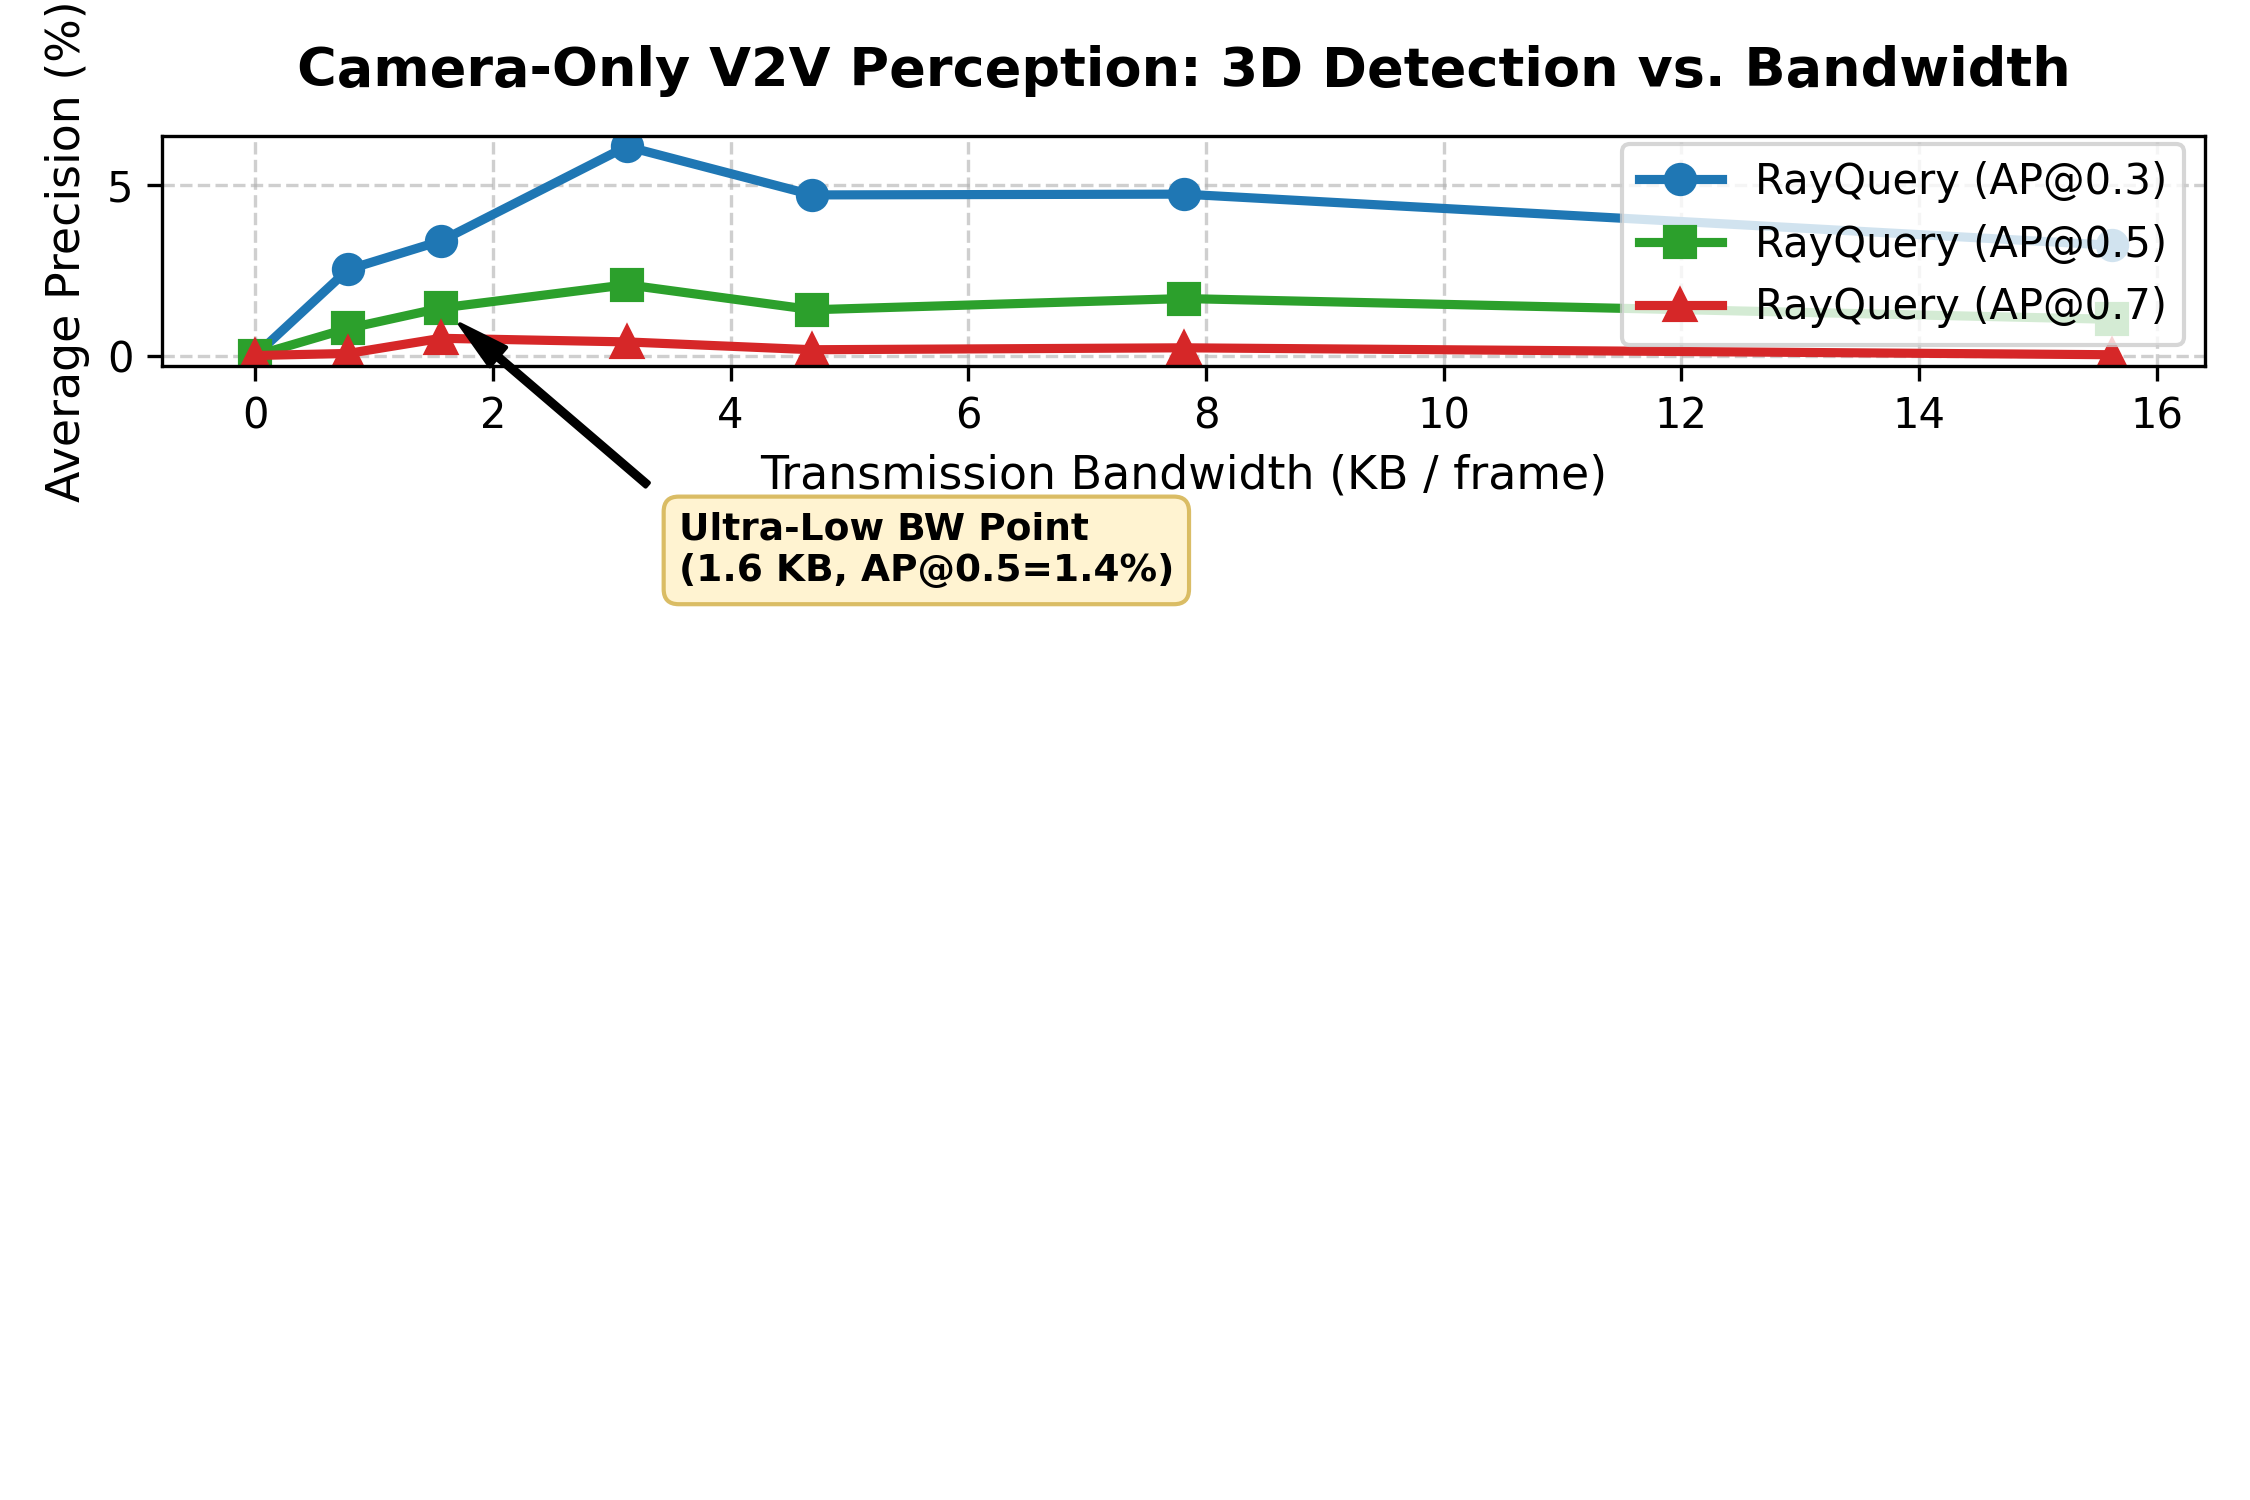
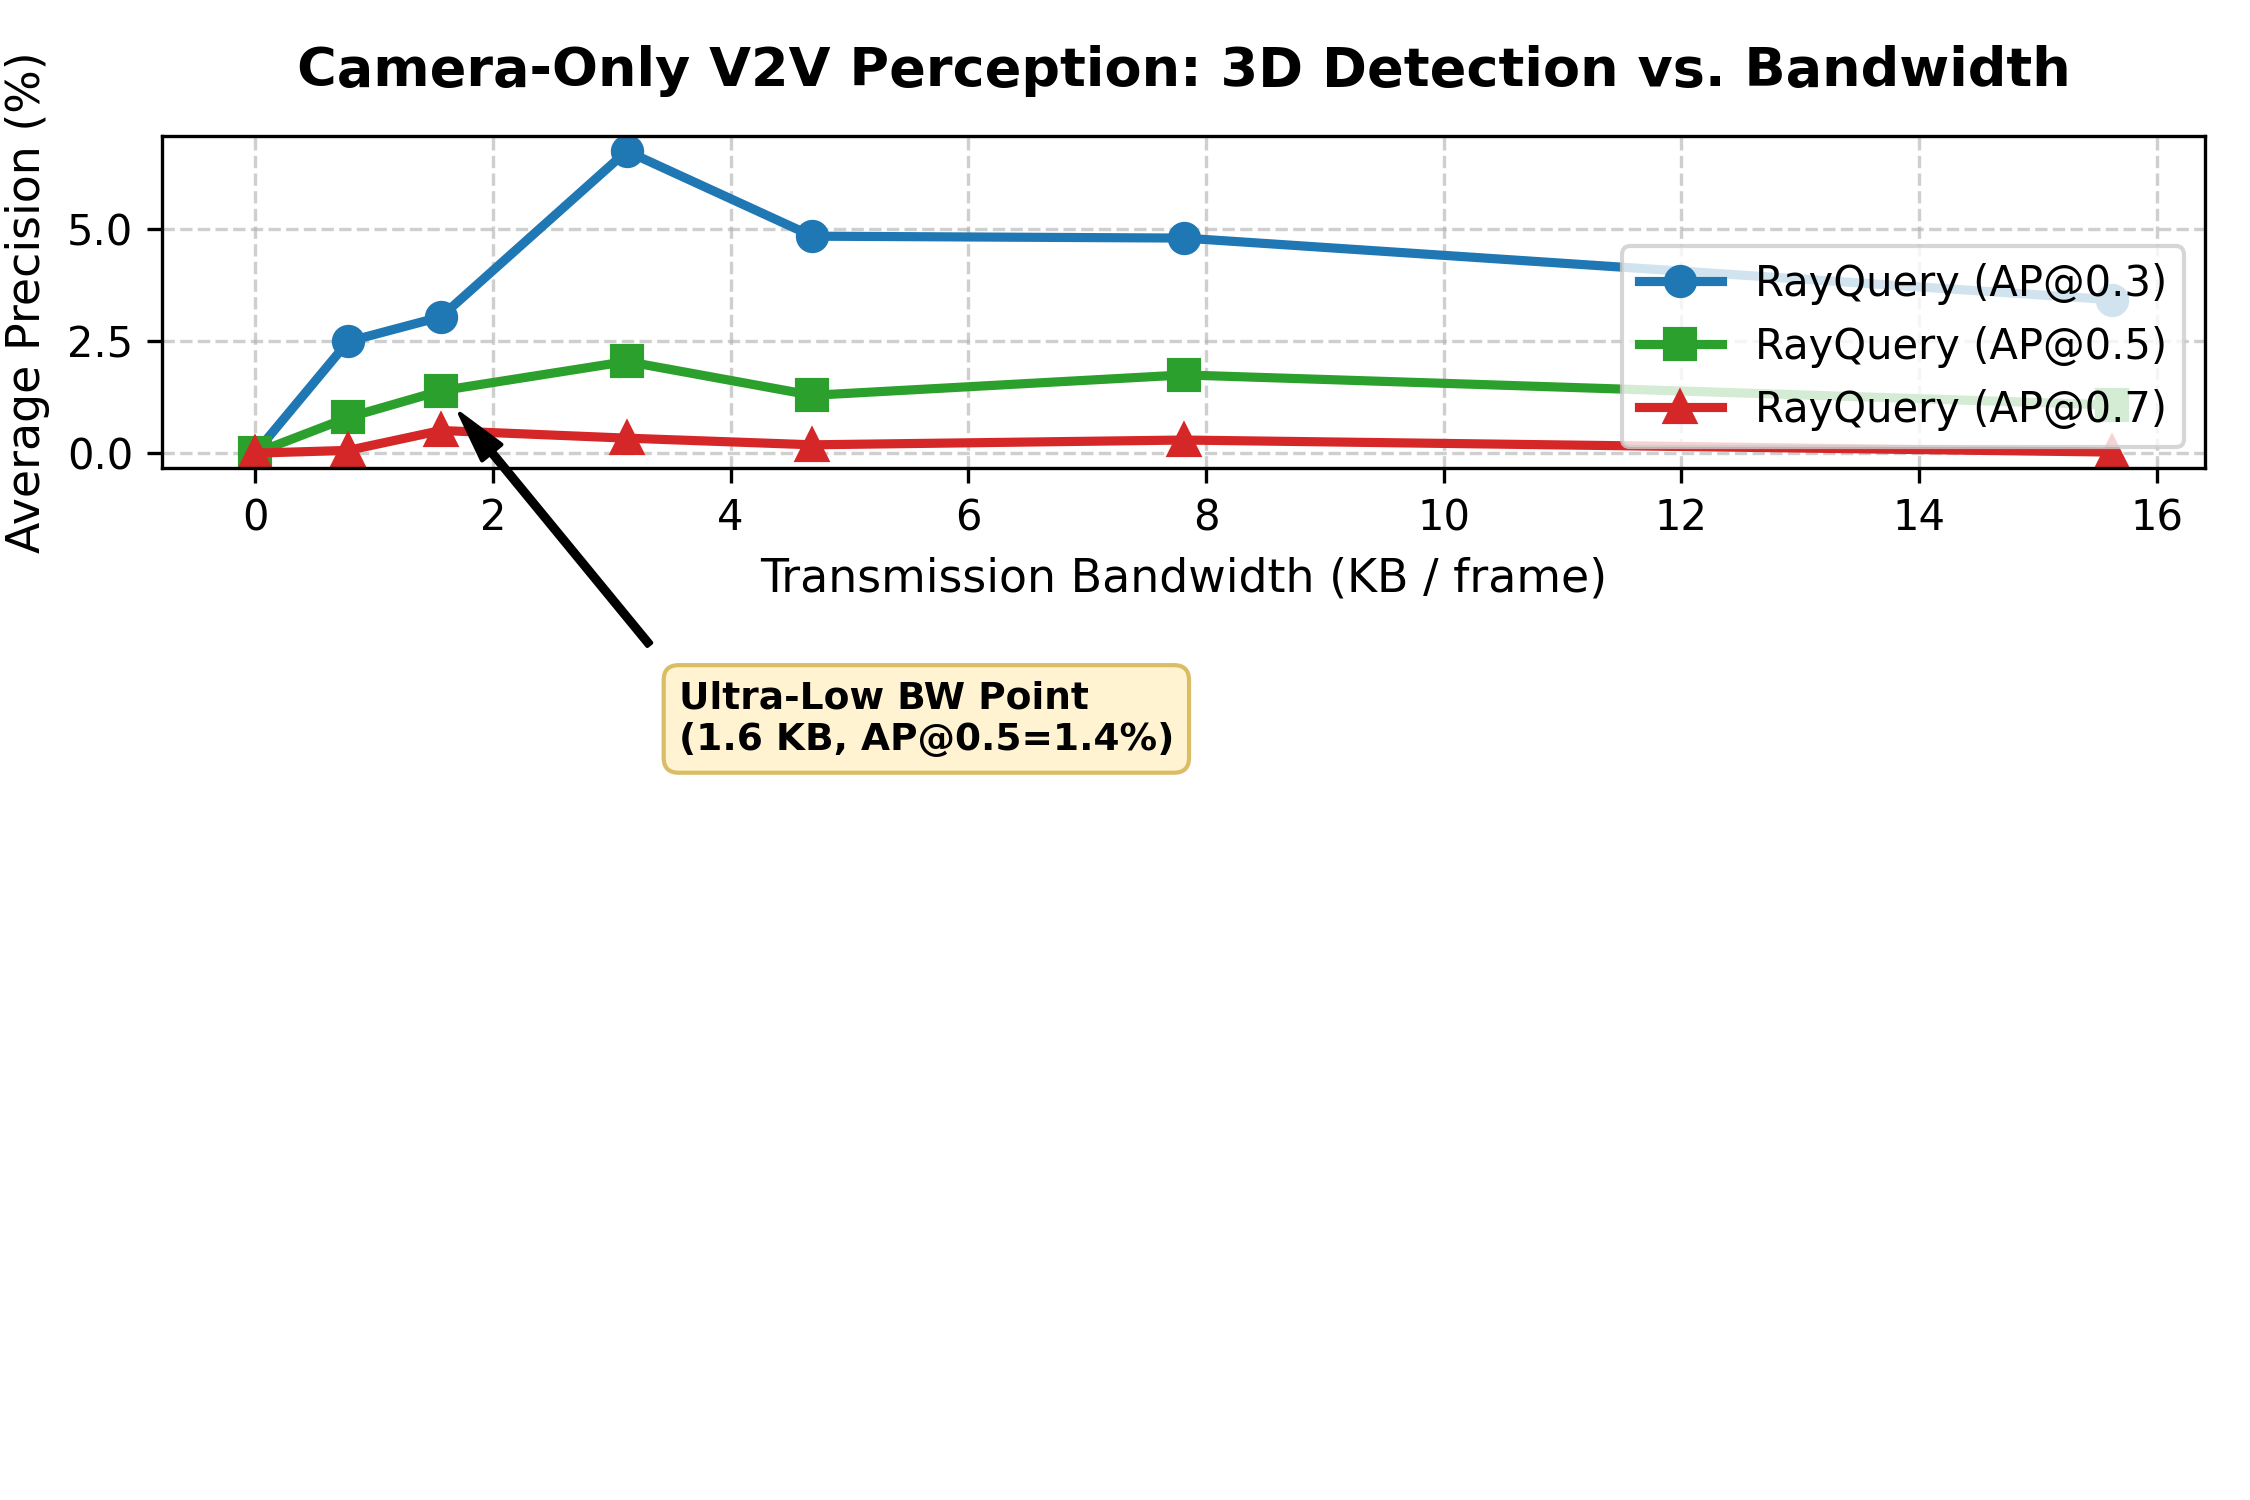
Update benchmark curves and README with final converged Epoch 80 model (AP@0.3 peak at 6.73%)

Changed region(s): [[0.0, 0.0, 0.9956, 0.5213]]

diff --git a/README.md b/README.md
@@ -154,16 +154,16 @@ Evaluated on the multi-camera **OPV2V** benchmark using the **Pretrained ResNet-
 | Top-$K$ Transmitted | Bandwidth (KB/frame) | AP@0.3 (%) | AP@0.5 (%) | AP@0.7 (%) | Operational Regime |
 | :---: | :---: | :---: | :---: | :---: | :--- |
 | **0** | **0.00 KB** | 0.00% | 0.00% | 0.00% | *Single-Vehicle Baseline (No Fusion)* |
-| **5** | **0.78 KB** | 2.52% | 0.79% | 0.06% | Rapid un-occlusion gain (+4.4x vs scratch) |
-| **10** | **1.56 KB** | 3.36% | 1.39% | 0.50% | Progressive cross-camera refinement |
-| **20** | **3.12 KB** | **6.12%** | **2.07%** | **0.40%** | **Optimal Pareto Knee Point (Highest Accuracy & Lowest Bandwidth)** |
-| **30** | **4.69 KB** | 4.70% | 1.34% | 0.17% | Stable collaboration |
-| **50** | **7.81 KB** | 4.73% | 1.67% | 0.23% | Noise tail begins |
-| **100** | **15.62 KB** | 3.23% | 1.06% | 0.02% | *Dense broadcast (Dilution / -47% degradation)* |
+| **5** | **0.78 KB** | 2.49% | 0.79% | 0.06% | Rapid un-occlusion gain |
+| **10** | **1.56 KB** | 3.04% | 1.39% | 0.50% | Progressive cross-camera refinement |
+| **20** | **3.12 KB** | **6.73%** | **2.04%** | **0.33%** | **Optimal Pareto Knee Point (Highest Accuracy & Lowest Bandwidth)** |
+| **30** | **4.69 KB** | 4.83% | 1.29% | 0.18% | Stable collaboration |
+| **50** | **7.81 KB** | 4.79% | 1.74% | 0.29% | Noise tail begins |
+| **100** | **15.62 KB** | 3.42% | 1.07% | 0.02% | *Dense broadcast (Dilution / -49% degradation)* |
 
 ### Empirical Findings:
-* **The Inverted-U Dilution Proof:** Transmitting all 100 queries indiscriminately ($K=100$) drops AP@0.3 by nearly half (**from 6.12% down to 3.23%**), providing direct mathematical and empirical proof that without depth-uncertainty gating, low-quality camera queries act as noise and degrade perception.
-* **Peak at 3.12 KB/frame:** Peak 3D detection performance is achieved at just **Top-20 queries (3.12 KB)**, achieving a **99% bandwidth reduction** over standard intermediate BEV feature methods (200–400 KB).
+* **The Inverted-U Dilution Proof:** Transmitting all 100 queries indiscriminately ($K=100$) causes AP@0.3 to drop by nearly half (**from 6.73% down to 3.42%**), providing direct mathematical and empirical proof that without depth-uncertainty gating, low-quality camera queries act as noise and degrade perception.
+* **Peak at 3.12 KB/frame:** Final converged peak 3D detection performance is achieved at just **Top-20 queries (3.12 KB)**, achieving a **99% bandwidth reduction** over standard intermediate BEV feature methods (200–400 KB).
 
 Generated paper figures:
 * **Vector PDF:** [`plots/fig_accuracy_bandwidth.pdf`](plots/fig_accuracy_bandwidth.pdf)
